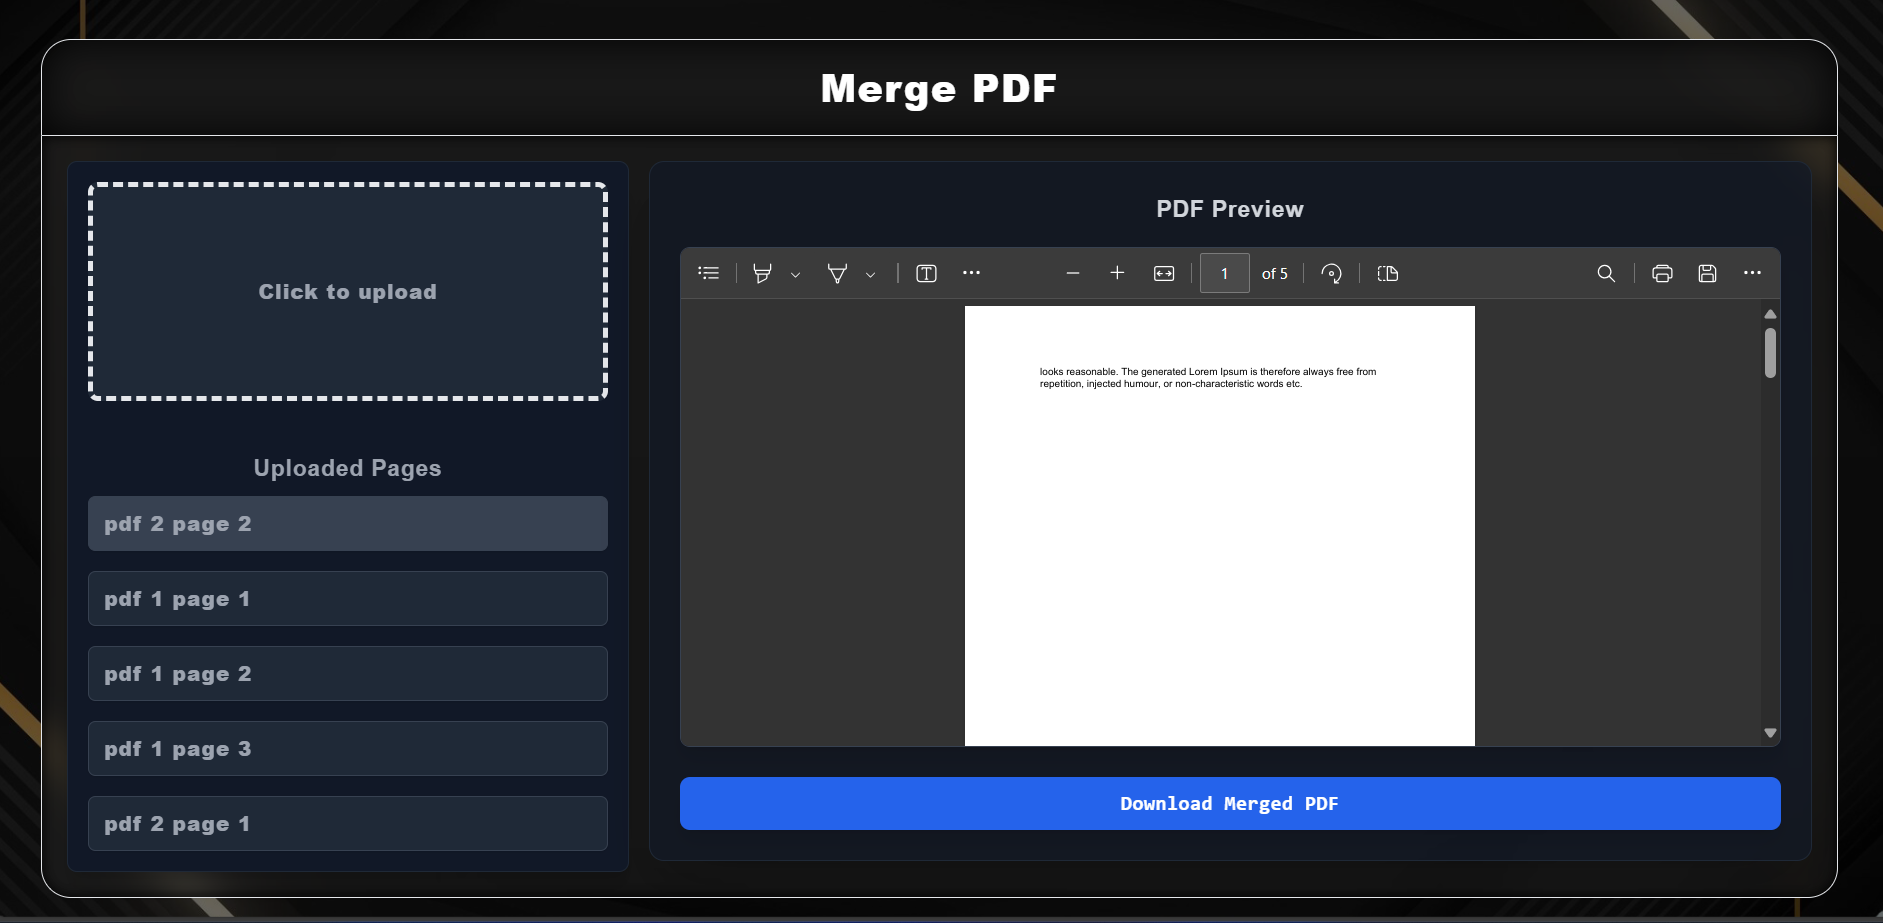
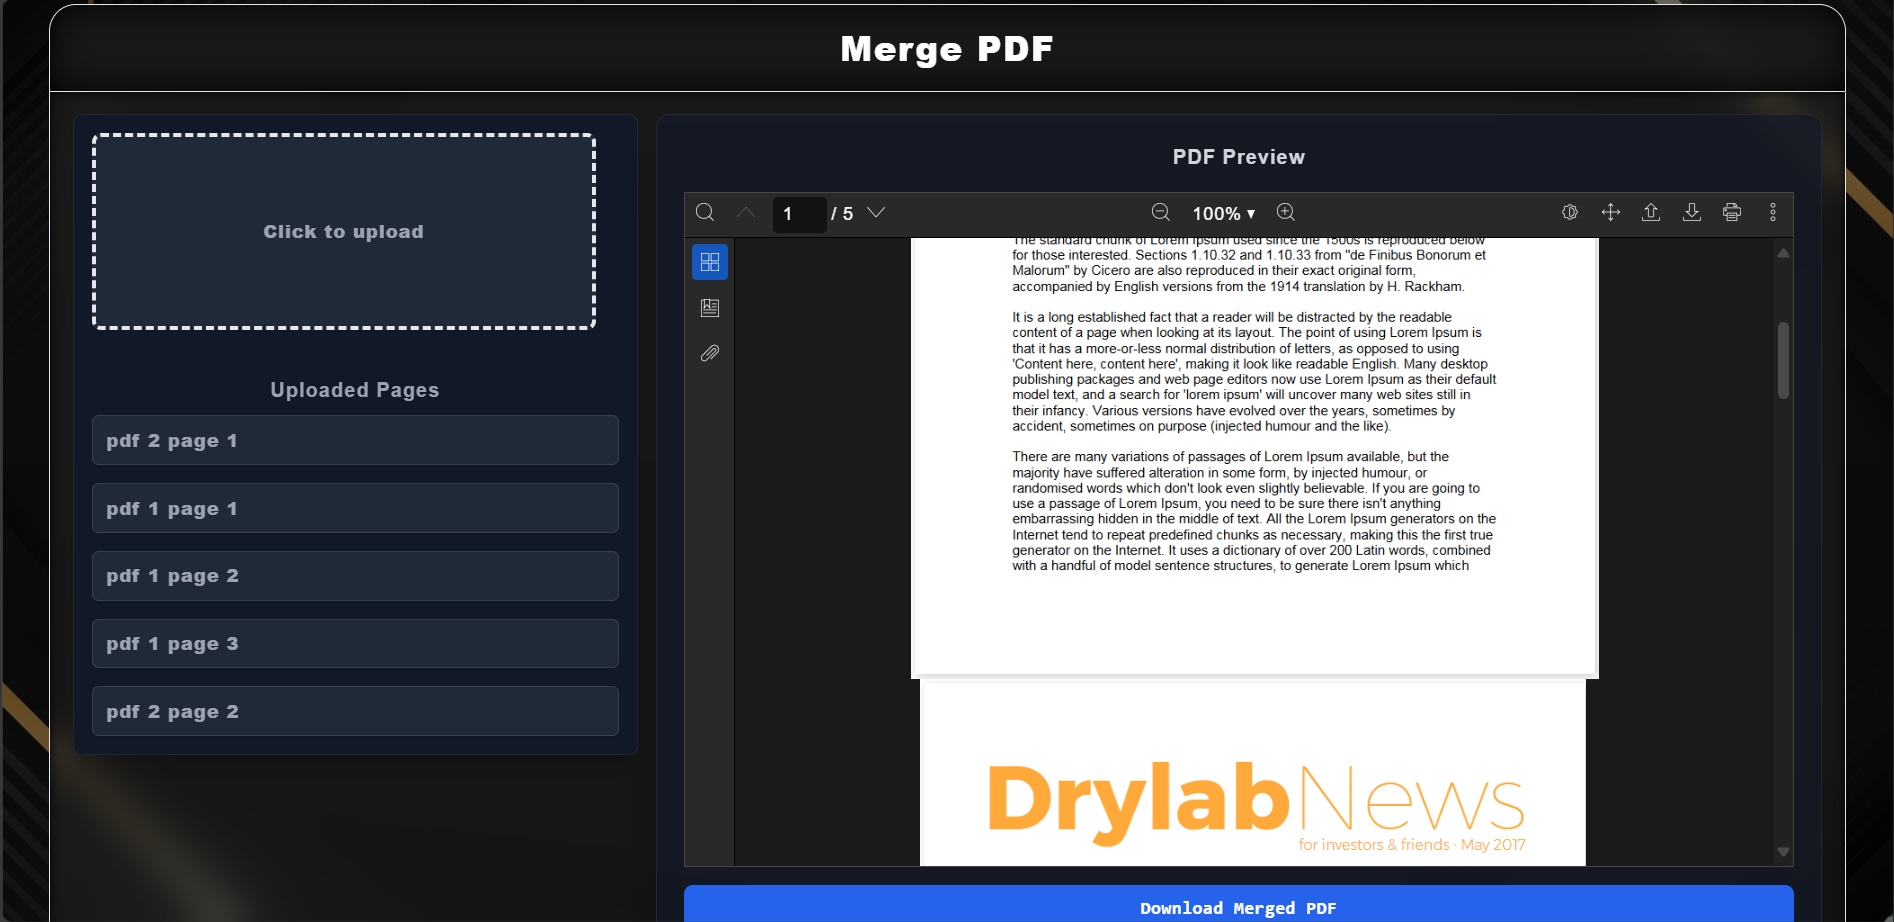
added Custom PDf-viewer that supports mobile pdf -view .....and added it in all the component those were using iframe

diff --git a/app/components/AddPages.jsx b/app/components/AddPages.jsx
@@ -3,6 +3,7 @@ import { PDFDocument } from 'pdf-lib';
 import dynamic from 'next/dynamic';
 const QuillEditor = dynamic(() => import('../utils/QuillEditor'), { ssr: false });
 import html2pdf from 'html2pdf.js';
+import PDFViewer from "./PDFViewer"
 const AddPages = () => {
   const [pdfs, setPdfs] = useState([]);
   const [pages, setPages] = useState([]);
@@ -195,15 +196,15 @@ const AddPages = () => {
               ))}
             </div>
 
-            {/* {isContinueClicked && pdfs.length>0 && ( */}
+            {isContinueClicked && pdfs.length > 0 && (
               <button
-              onClick={openDialog}
-              className="px-6 py-4 w-fit mt-4 bg-blue-500 text-white font-mono shadow-lg tracking-wide rounded-lg hover:bg-blue-600 transition duration-300 font-extrabold ease-in-out disabled:opacity-50"
-            >
-              Add Page
-            </button>
-            {/* )
-} */}
+                onClick={openDialog}
+                className="px-6 py-4 w-fit mt-4 bg-blue-500 text-white font-mono shadow-lg tracking-wide rounded-lg hover:bg-blue-600 transition duration-300 font-extrabold ease-in-out disabled:opacity-50"
+              >
+                Add Page
+              </button>
+            )
+            }
           </div>
         </div>
 
@@ -213,16 +214,10 @@ const AddPages = () => {
             {pages.length > 0 ? (
               <>
                 <h2 className="text-lg font-bold text-gray-300 mb-4">PDF Preview</h2>
-                <iframe
-                  src={previewPdf}
-                  width="100%"
-                  height="400px"
-                  title="Preview PDF"
-                  className="border border-gray-700 rounded-lg mb-6 shadow-lg"
-                />
+                <PDFViewer file={previewPdf} />
                 <button
                   onClick={downloadPdf}
-                  className="px-6 py-3 w-full bg-blue-600 text-white font-mono shadow-lg tracking-wide rounded-lg hover:bg-blue-700 transition duration-300 font-extrabold ease-in-out disabled:opacity-50"
+                  className="px-6 py-3 mt-4 w-full bg-blue-600 text-white font-mono shadow-lg tracking-wide rounded-lg hover:bg-blue-700 transition duration-300 font-extrabold ease-in-out disabled:opacity-50"
                 >
                   Download PDF with added pages
                 </button>
@@ -236,38 +231,38 @@ const AddPages = () => {
         </div>
       </div>
       {isDialogOpen && (
-  <div className="fixed top-0 left-0 flex justify-center items-center w-screen h-screen bg-black bg-opacity-90">
-  <div className="text-white border-[1px] px-6 py-8 border-gray-800 text-center h-fit w-[90%] md:w-[60%] backdrop-blur-xl bg-opacity-95 rounded-2xl bg-[#121212] overflow-hidden shadow-[0px_8px_30px_rgba(0,0,0,0.8)]">
-    <h1 className="text-3xl text-blue-400 border-b-[1px] border-gray-700 w-full pb-4 font-bold uppercase tracking-widest mb-8 text-center">
-      Add Content to Page
-    </h1>
-    <div className="px-4">
-      <QuillEditor
-        value={editorContent}
-        onChange={setEditorContent}
-        placeholder={"Start writing..."}
-        className="bg-[#1f1f1f] text-white rounded-lg shadow-[0_0_10px_rgba(0,0,0,0.5)]"
-      />
-    </div>
-    <div className="flex justify-between items-center px-6 mt-8">
-      <button
-        onClick={closeDialog}
-        className="px-10 py-5 w-fit border-2 border-blue-500 text-white font-mono shadow-lg tracking-wide rounded-lg hover:bg-gray-500 hover:text-black hover:border-black transition duration-300 font-bold ease-in-out disabled:opacity-50"
-      >
-        Cancel
-      </button>
-      <button
-        onClick={addPageFromEditor}
-        className="px-8 py-5 w-fit bg-blue-600 text-white font-mono shadow-lg tracking-wide rounded-lg hover:bg-blue-700 transition duration-300 font-bold ease-in-out disabled:opacity-50"
-      >
-        Add Page
-      </button>
-    </div>
-  </div>
-</div>
+        <div className="fixed top-0 left-0 flex justify-center items-center w-screen h-screen bg-black bg-opacity-90">
+          <div className="text-white border-[1px] px-6 py-8 border-gray-800 text-center h-fit w-[90%] md:w-[60%] backdrop-blur-xl bg-opacity-95 rounded-2xl bg-[#121212] overflow-hidden shadow-[0px_8px_30px_rgba(0,0,0,0.8)]">
+            <h1 className="text-3xl text-blue-400 border-b-[1px] border-gray-700 w-full pb-4 font-bold uppercase tracking-widest mb-8 text-center">
+              Add Content to Page
+            </h1>
+            <div className="px-4">
+              <QuillEditor
+                value={editorContent}
+                onChange={setEditorContent}
+                placeholder={"Start writing..."}
+                className="bg-[#1f1f1f] text-white rounded-lg shadow-[0_0_10px_rgba(0,0,0,0.5)]"
+              />
+            </div>
+            <div className="flex justify-between items-center px-6 mt-8">
+              <button
+                onClick={closeDialog}
+                className="px-10 py-5 w-fit border-2 border-blue-500 text-white font-mono shadow-lg tracking-wide rounded-lg hover:bg-gray-500 hover:text-black hover:border-black transition duration-300 font-bold ease-in-out disabled:opacity-50"
+              >
+                Cancel
+              </button>
+              <button
+                onClick={addPageFromEditor}
+                className="px-8 py-5 w-fit bg-blue-600 text-white font-mono shadow-lg tracking-wide rounded-lg hover:bg-blue-700 transition duration-300 font-bold ease-in-out disabled:opacity-50"
+              >
+                Add Page
+              </button>
+            </div>
+          </div>
+        </div>
 
 
-)}
+      )}
     </div>
   );
 };

diff --git a/app/components/PDFMerge.jsx b/app/components/PDFMerge.jsx
@@ -1,6 +1,6 @@
 import React, { useEffect, useState } from 'react';
 import { PDFDocument } from 'pdf-lib';
-
+import PDFViewer from "./PDFViewer"
 const PdfMerge = () => {
   const [pdfs, setPdfs] = useState([]);
   const [pages, setPages] = useState([]);
@@ -155,20 +155,14 @@ const PdfMerge = () => {
       </div>
 
       <div className="w-full md:w-2/3">
-      <div className="bg-gray-900 bg-opacity-70 border border-gray-800 min-h-[200px] shadow-2xl rounded-xl p-6">
+      <div className="bg-gray-900 font-normal bg-opacity-70 border border-gray-800 min-h-[200px] shadow-2xl rounded-xl p-6">
         {pages.length > 0 ? (
           <>
             <h2 className="text-lg font-bold text-gray-300 mb-4">PDF Preview</h2>
-            <iframe
-              src={previewPdf}
-              width="100%"
-              height="400px"
-              title="Preview PDF"
-              className="border border-gray-700 rounded-lg mb-6 shadow-lg"
-            />
+            <PDFViewer file={previewPdf}/>
             <button
               onClick={downloadPdf}
-              className="px-6 py-3 w-full bg-blue-600 text-white font-mono shadow-lg tracking-wide rounded-lg hover:bg-blue-700 transition duration-300 font-extrabold ease-in-out disabled:opacity-50"
+              className="px-6 py-3 mt-4 w-full bg-blue-600 text-white font-mono shadow-lg tracking-wide rounded-lg hover:bg-blue-700 transition duration-300 font-extrabold ease-in-out disabled:opacity-50"
             >
               Download Merged PDF
             </button>

diff --git a/app/components/PDFViewer.jsx b/app/components/PDFViewer.jsx
@@ -1,0 +1,32 @@
+import React, { useState } from 'react';
+import { Viewer, Worker } from '@react-pdf-viewer/core';
+import { defaultLayoutPlugin } from '@react-pdf-viewer/default-layout';
+
+import '@react-pdf-viewer/core/lib/styles/index.css';
+import '@react-pdf-viewer/default-layout/lib/styles/index.css';
+
+const PDFViewer = ({ file }) => {
+  const defaultLayoutPluginInstance = defaultLayoutPlugin();
+
+  return (
+    <div>
+      {file && (
+        <Worker workerUrl="https://unpkg.com/pdfjs-dist@3.4.120/build/pdf.worker.js">
+          <div className="h-[600px] overflow-auto" style={{
+            scrollbarWidth: "thin",
+            scrollbarColor: "rgba(100, 100, 100, 0.6) rgba(100, 100, 100, 0.1)",
+          }}>
+            <Viewer
+              theme={"dark"}
+              fileUrl={file}
+              defaultScale={1}
+              plugins={[defaultLayoutPluginInstance]}
+            />
+          </div>
+        </Worker>
+      )}
+    </div>
+  );
+};
+
+export default PDFViewer;

diff --git a/app/components/ImageToPDF.jsx b/app/components/ImageToPDF.jsx
@@ -1,7 +1,7 @@
 import React, { useState } from 'react';
 import { PDFDocument } from 'pdf-lib';
 import Image from 'next/image';
-
+import PDFViewer from "./PDFViewer"
 const ImageToPDF = () => {
   const [imageFile, setImageFile] = useState(null);
   const [dragActive, setDragActive] = useState(false);
@@ -125,11 +125,13 @@ const ImageToPDF = () => {
 
       {pdfUrl && (
         <div className=" px-6 w-full flex flex-col items-center">
-          <iframe
+          <div
             src={pdfUrl}
             title="PDF Preview"
-            className="w-full  h-96 border border-gray-600 rounded-lg shadow-md"
-          />
+            className="w-full  h-fit border border-gray-600 rounded-lg shadow-md"
+          >
+ <PDFViewer file={pdfUrl}/>
+            </div>
           <button
             onClick={downloadPdf}
             className="mt-4 px-6 w-full mb-4 py-3 bg-green-600 hover:bg-green-700 text-white rounded-lg shadow-lg transition"
